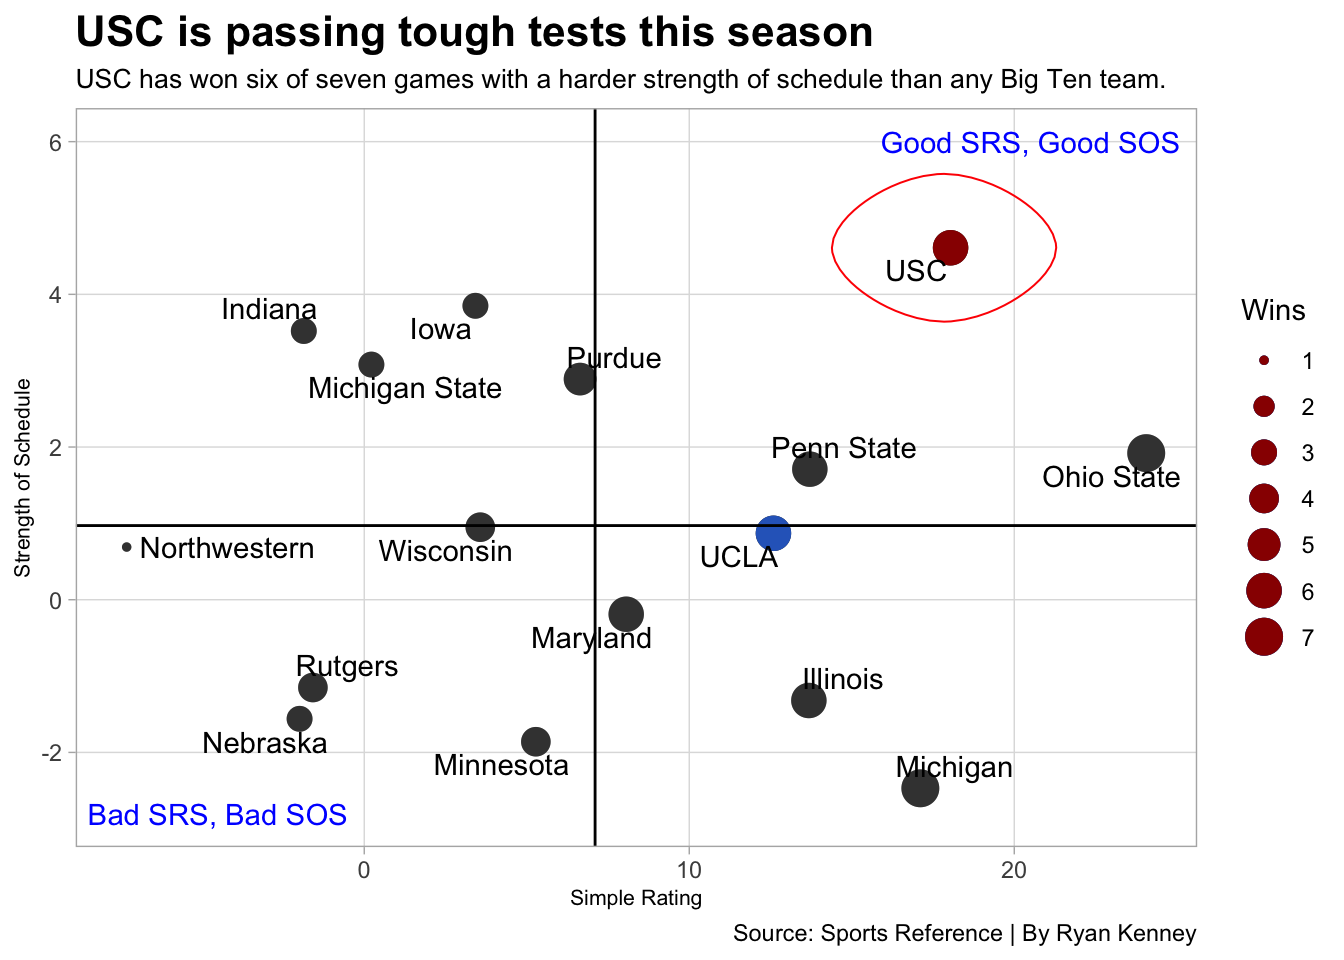
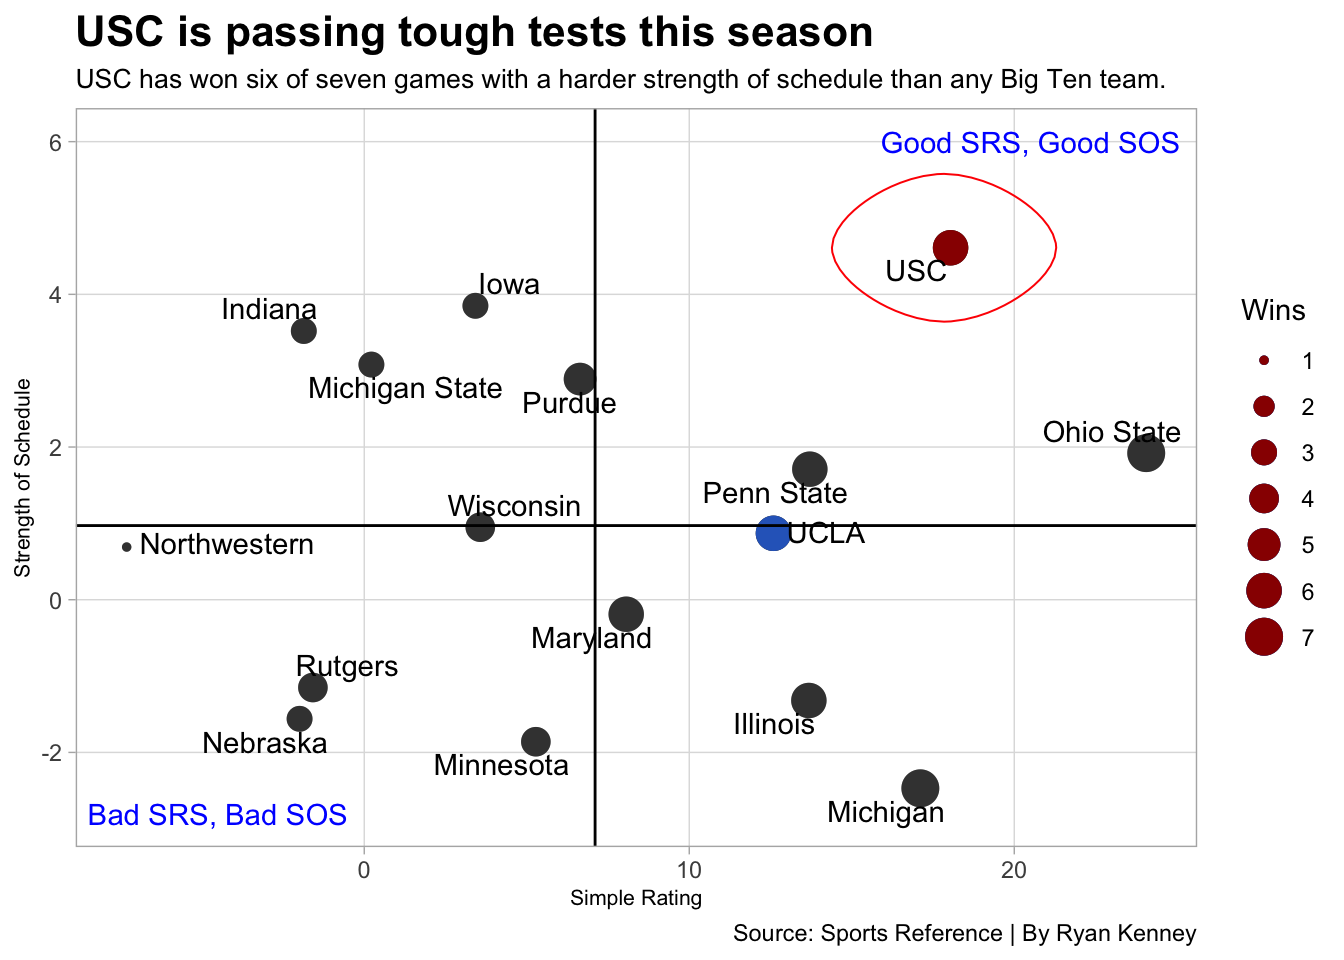
yes

diff --git a/posts/ucla-and-usc-meet-big-ten-style-football/index.html b/posts/ucla-and-usc-meet-big-ten-style-football/index.html
@@ -344,7 +344,7 @@ code span.wa { color: #60a0b0; font-weight: bold; font-style: italic; } /* Warni
 <span id="cb2-20"><a href="#cb2-20" aria-hidden="true" tabindex="-1"></a>  </span>
 <span id="cb2-21"><a href="#cb2-21" aria-hidden="true" tabindex="-1"></a>  <span class="fu">scale_y_reverse</span>(<span class="at">breaks=</span><span class="fu">c</span>(<span class="dv">1</span>,<span class="dv">2</span>,<span class="dv">3</span>,<span class="dv">4</span>,<span class="dv">5</span>,<span class="dv">6</span>,<span class="dv">7</span>,<span class="dv">8</span>,<span class="dv">9</span>,<span class="dv">10</span>,<span class="dv">11</span>,<span class="dv">12</span>,<span class="dv">13</span>,<span class="dv">14</span>,<span class="dv">15</span>,<span class="dv">16</span>)) <span class="sc">+</span></span>
 <span id="cb2-22"><a href="#cb2-22" aria-hidden="true" tabindex="-1"></a>  </span>
-<span id="cb2-23"><a href="#cb2-23" aria-hidden="true" tabindex="-1"></a>  <span class="fu">labs</span>(<span class="at">title =</span> <span class="st">"UCLA and USC struggle to stop opponents on defense "</span>, <span class="at">subtitle=</span><span class="st">"Both teams lean on outscoring opponents. They win most of their games in shootouts, but that might not work against some of the stifling Big Ten defenses."</span>, <span class="at">y=</span><span class="st">"Rank (Opponent Points per Game)"</span>, <span class="at">x=</span><span class="st">"Season"</span>) <span class="sc">+</span></span>
+<span id="cb2-23"><a href="#cb2-23" aria-hidden="true" tabindex="-1"></a>  <span class="fu">labs</span>(<span class="at">title =</span> <span class="st">"UCLA and USC struggle to stop opponents on defense "</span>, <span class="at">subtitle=</span><span class="st">"Both teams lean on outscoring opponents. They win most of their games in shootouts, but that might not work against some of the stifling Big Ten defenses."</span>, <span class="at">y=</span><span class="st">"Rank (Opponent Points per Game)"</span>, <span class="at">x=</span><span class="st">"Season"</span>, <span class="at">caption=</span><span class="st">"Source: Sports Reference | By Ryan Kenney"</span>) <span class="sc">+</span></span>
 <span id="cb2-24"><a href="#cb2-24" aria-hidden="true" tabindex="-1"></a>  </span>
 <span id="cb2-25"><a href="#cb2-25" aria-hidden="true" tabindex="-1"></a><span class="fu">theme_light</span>()<span class="sc">+</span></span>
 <span id="cb2-26"><a href="#cb2-26" aria-hidden="true" tabindex="-1"></a> <span class="fu">theme</span>(</span>
